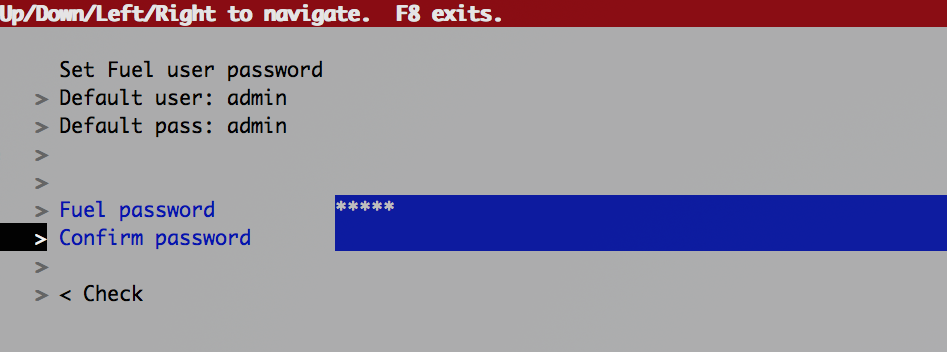
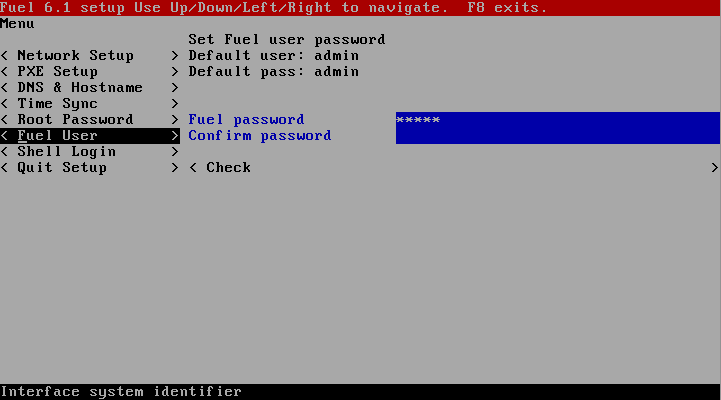
Replace screenshots in User Guide
Replaces the following screenshots in user guide with new ones:
- for Install Fuel Master Node
- for Fuel Setup
- for Network Setup
- for PXE Setup
- for DNS & Hostname
- for Time sync with NTP
- for Fuel login
Removes the screenshot and info for docker0.
Removes the text (and screenshot accordingly) about
the showmenu option as now it's showmenu=yes
by default.
Adds a screenshot for Quit Setup.

Closes-Bug: #1469141
Closes-Bug: #1469146

diff --git a/pages/user-guide/initialize-fuel/0400-pxe-config.rst b/pages/user-guide/initialize-fuel/0400-pxe-config.rst
@@ -57,19 +57,10 @@ for your particular networking environment,
 while helping to detect errors early
 so you do not need to troubleshoot individual configuration files.
 
-In order to get to the Fuel Setup, press the <TAB> key on the very first installation screen
-(the one that says "Welcome to Fuel Installer!") and update the kernel option
-``showmenu=no`` to ``showmenu=yes``. Alternatively, you can press a key to
-start Fuel Setup during the first boot after installation.
-
-.. image:: /_images/fuel_welcome_customized_settings.jpg
-  :width: 50%
-
 
 Within Fuel Setup, you can configure the following parameters:
 
 * DHCP/Static configuration for each network interface
-* Docker internal network configuration
 * Select interface for Fuel Admin network
 * Define DHCP pool (bootstrap) and static range (installed nodes)
 * Set NTP servers for Time settings
@@ -78,7 +69,7 @@ Within Fuel Setup, you can configure the following parameters:
 * DNS options
 * Launch shell for optional pre-deployment tasks
 
-.. image:: /_images/fuelmenu_Network_Setup.jpg
+.. image:: /_images/fuelmenu_Network_Setup.png
   :width: 50%
 
 Use the arrow keys to navigate through the tool and Space or Enter key to select
@@ -87,17 +78,11 @@ an item.
 Network Setup
 -------------
 
-.. Warning::
-
-  This section must be configured only in scope of Fuel Master node first boot!
-  Setting new network settings for the already installed master node requires
-  that all Docker containers be rebuilt and possibly further manual reconfiguration!
-
 This section is used to set network interface settings. It shows all network
 interfaces currently available. During the first boot, it shows only available
-ethX NICs and docker0 bridge; if you run Fuel Setup on already deployed master
-node it will additionally present you vethXXX interfaces.
-You may set configuration for each interface, enable or disable particular NICs.
+ethX NICs; if you run Fuel Setup on already deployed Fuel Master node it will
+additionally present you vethXXX interfaces. You may set configuration for
+each interface, enable or disable particular NICs.
 
 Unlike the other tabs, this tab has the ability to immediately apply only changes
 related to this tab.
@@ -110,21 +95,6 @@ related to this tab.
   there is possibility to use Shell Login from Fuel Setup
   during the first boot, perform necessary network settings with proper care,
   return back to the Fuel Setup and continue with master node installation.
-
-
-About the Docker0 bridge.
-
-.. image:: /_images/fuelmenu_Network_Docker.jpg
-  :width: 50%
-
-This virtual bridge connects external physical
-interfaces with the internal Docker virtual network.
-It has default 172.17.42.0/16 CIDR but, as Docker chooses this network automatically,
-this CIDR may vary from installation to installation. This virtual network
-exists inside the master node only.
-Be sure this CIDR does not intersect with Admin(PXE) one in case you are going to
-customize this network.
-
 
 Configuring Network settings
 
@@ -157,8 +127,7 @@ Network Setup includes the following configurable sections:
 * Button Apply - Validates the unsaved settings on the Network Setup section
   and makes the new settings effective.
 
-
-.. image:: /_images/fuelmenu_Network_Setup.jpg
+.. image:: /_images/fuelmenu_Network_Setup.png
   :width: 50%
 
 Assume you are going to change PXE NIC from eth0 to eth1. eth0 is already up and
@@ -187,7 +156,7 @@ in advance.
   To set the master node network interfaces properly, one must set and APPLY
   correct network settings on the Network Setup tab BEFORE proceeding with PXE setup.
 
-.. image:: /_images/fuelmenu_Network_Customized_Setup.jpg
+.. image:: /_images/fuelmenu_Network_Customized_Setup.png
   :width: 50%
 
 Once you have finished with the network Setup you may proceed to :ref:`PXE<pxe-term>`
@@ -227,11 +196,6 @@ PXE setup includes the following options:
   IP addresses. These addresses should be located inside the CIDR that is configured
   for the currently selected NIC.
 
-  .. note:: In Fuel versions 5.1 and earlier, there was
-     a separate Static Pool, and docker0 would incorrectly show
-     up in the list of available PXE interfaces, this is no longer
-     relevant in current version.
-
 * Check button - verifies the current unsaved settings against the currently
   selected NIC without applying.
 
@@ -246,11 +210,15 @@ Let us continue the example we started in the Network Settings section:
 
 #. As usual, use Check button to verify the current unsaved settings.
 
-  .. warning::
-     Setting the PXE NIC with Fuel Setup when the Fuel Master node is already deployed
-     may lead to non-working PXE boot functionality. In order to get PXE working,
-     one must rebuild all Docker containers and set the remaining related settings
-     manually.
+   .. warning::
+
+      Modifying the PXE NIC with Fuel Setup when the Fuel Master node is
+      already deployed will break Fuel's ability to PXE boot and manage
+      OpenStack environments. If you wish to modify PXE NIC configuration,
+      you should only do so by destroying all OpenStack environments,
+      and then run the following commands: :command:`dockerctl shell nailgun`,
+      :command:`manage.py dropdb`, :command:`dockerctl destroy all`,
+      :command:`dockerctl start all`.
 
 .. image:: /_images/fuelmenu_PXE_Setup.png
   :width: 50%
@@ -262,7 +230,7 @@ DNS & Hostname
 Use this section to configure the remained master node network settings.
 These settings may be reconfigured after the master node has been deployed.
 
-.. image:: /_images/fuelmenu_DNS.jpg
+.. image:: /_images/fuelmenu_DNS.png
   :width: 50%
 
 Details on settings:
@@ -292,7 +260,7 @@ Use this section to set NTP server names
 in order to get proper time synchronization.
 Synchronized time is mandatory for OpenStack services.
 
-.. image:: /_images/fuelmenu_TimeSync.jpg
+.. image:: /_images/fuelmenu_TimeSync.png
   :width: 50%
 
 If you have access from master node to the external or corporate network -
@@ -371,6 +339,9 @@ Options:
 
 Once you have made your changes,
 go to Save & Quit.
+
+.. image:: /_images/fuelmenu_Quit_Setup.png
+  :width: 50%
 
 You can run ``fuelmenu`` from a root shell on the Fuel Master node
 after deployment to make minor changes
